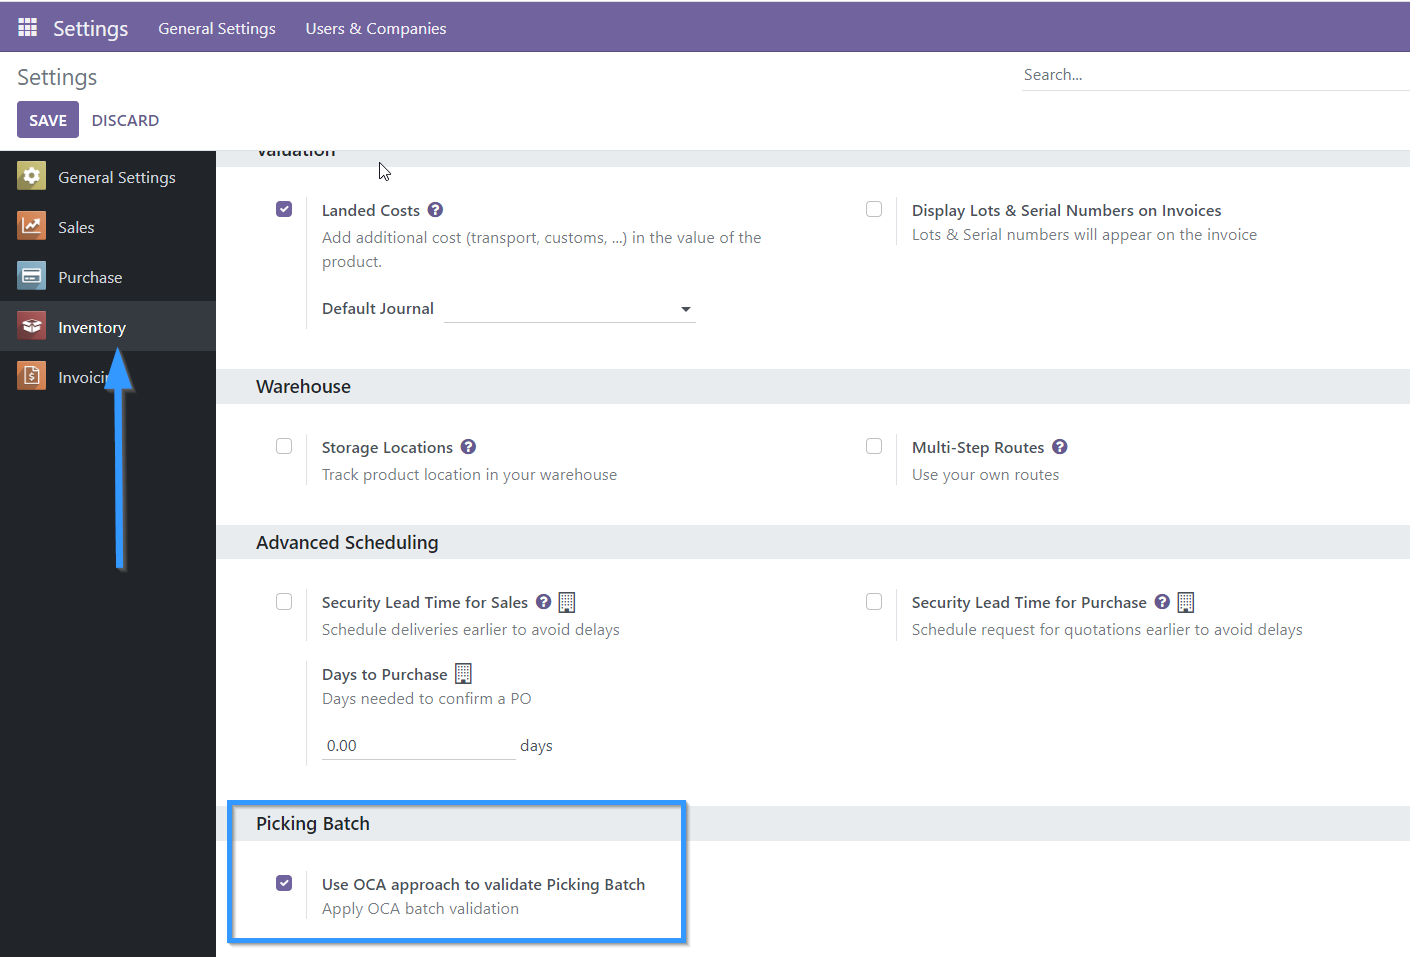
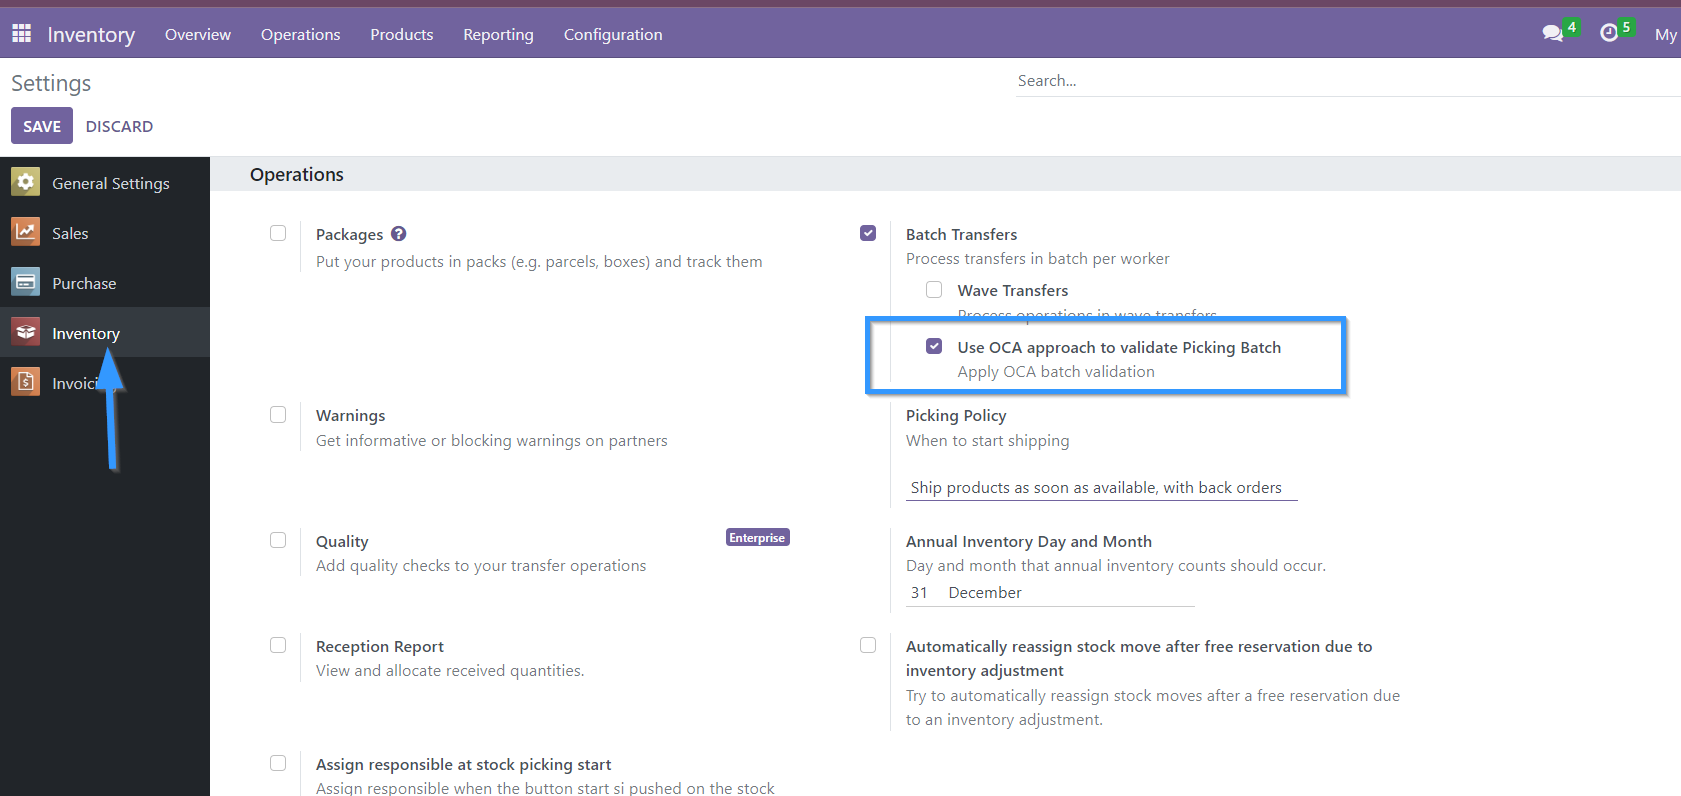
[REF] stock_picking_batch_extended: Move settings option under Batch Picking group
[REF] stock_picking_batch_extended: update picking_batch_configuration_settings img configuration

diff --git a/stock_picking_batch_extended/static/description/index.html b/stock_picking_batch_extended/static/description/index.html
@@ -367,7 +367,7 @@ ul.auto-toc {
 !! This file is generated by oca-gen-addon-readme !!
 !! changes will be overwritten.                   !!
 !!!!!!!!!!!!!!!!!!!!!!!!!!!!!!!!!!!!!!!!!!!!!!!!!!!!
-!! source digest: sha256:b51fb2e50b041efe4ca50b7c91f575be742d5a2fe2cf4224a9c9c7d58db4d37a
+!! source digest: sha256:eb68101c66f58f9b1f501b8510bb38ca4582c6e8a60ceb023390c804dffc6528
 !!!!!!!!!!!!!!!!!!!!!!!!!!!!!!!!!!!!!!!!!!!!!!!!!!!! -->
 <p><a class="reference external image-reference" href="https://odoo-community.org/page/development-status"><img alt="Mature" src="https://img.shields.io/badge/maturity-Mature-brightgreen.png" /></a> <a class="reference external image-reference" href="http://www.gnu.org/licenses/agpl-3.0-standalone.html"><img alt="License: AGPL-3" src="https://img.shields.io/badge/licence-AGPL--3-blue.png" /></a> <a class="reference external image-reference" href="https://github.com/OCA/stock-logistics-workflow/tree/16.0/stock_picking_batch_extended"><img alt="OCA/stock-logistics-workflow" src="https://img.shields.io/badge/github-OCA%2Fstock--logistics--workflow-lightgray.png?logo=github" /></a> <a class="reference external image-reference" href="https://translation.odoo-community.org/projects/stock-logistics-workflow-16-0/stock-logistics-workflow-16-0-stock_picking_batch_extended"><img alt="Translate me on Weblate" src="https://img.shields.io/badge/weblate-Translate%20me-F47D42.png" /></a> <a class="reference external image-reference" href="https://runboat.odoo-community.org/builds?repo=OCA/stock-logistics-workflow&amp;target_branch=16.0"><img alt="Try me on Runboat" src="https://img.shields.io/badge/runboat-Try%20me-875A7B.png" /></a></p>
 <p>This module:</p>
@@ -390,7 +390,7 @@ Adds extra fields and functionalities to the batch picking form.</p>
 </div>
 <div class="section" id="configuration">
 <h1><a class="toc-backref" href="#toc-entry-1">Configuration</a></h1>
-<p>In Inventory / Settings it is possible to activate or deactivate which approach for batch handling will be used per company. By default after installation this option will be activated for all companies.</p>
+<p>In Inventory / Settings / Batch Picking it is possible to activate or deactivate which approach for batch handling will be used per company. By default after installation this option will be activated for all companies.</p>
 <div class="figure align-center">
 <img alt="Picking batch configuration settings" src="https://raw.githubusercontent.com/OCA/stock-logistics-workflow/16.0/stock_picking_batch_extended/static/picking_batch_configuration_settings.png" style="width: 80%;" />
 </div>

diff --git a/stock_picking_batch_extended/__manifest__.py b/stock_picking_batch_extended/__manifest__.py
@@ -5,7 +5,7 @@
 {
     "name": "Stock batch picking extended",
     "summary": "Allows manage a lot of pickings in batch",
-    "version": "16.0.1.0.2",
+    "version": "16.0.1.1.0",
     "author": "Camptocamp, " "Tecnativa, " "Odoo Community Association (OCA)",
     "development_status": "Mature",
     "maintainers": ["gurneyalex", "carlosdauden", "i-vyshnevska"],

diff --git a/stock_picking_batch_extended/README.rst b/stock_picking_batch_extended/README.rst
@@ -7,7 +7,7 @@ Stock batch picking extended
    !! This file is generated by oca-gen-addon-readme !!
    !! changes will be overwritten.                   !!
    !!!!!!!!!!!!!!!!!!!!!!!!!!!!!!!!!!!!!!!!!!!!!!!!!!!!
-   !! source digest: sha256:b51fb2e50b041efe4ca50b7c91f575be742d5a2fe2cf4224a9c9c7d58db4d37a
+   !! source digest: sha256:eb68101c66f58f9b1f501b8510bb38ca4582c6e8a60ceb023390c804dffc6528
    !!!!!!!!!!!!!!!!!!!!!!!!!!!!!!!!!!!!!!!!!!!!!!!!!!!!
 
 .. |badge1| image:: https://img.shields.io/badge/maturity-Mature-brightgreen.png
@@ -41,7 +41,7 @@ Adds extra fields and functionalities to the batch picking form.
 Configuration
 =============
 
-In Inventory / Settings it is possible to activate or deactivate which approach for batch handling will be used per company. By default after installation this option will be activated for all companies.
+In Inventory / Settings / Batch Picking it is possible to activate or deactivate which approach for batch handling will be used per company. By default after installation this option will be activated for all companies.
 
 .. figure:: https://raw.githubusercontent.com/OCA/stock-logistics-workflow/16.0/stock_picking_batch_extended/static/picking_batch_configuration_settings.png
     :alt: Picking batch configuration settings

diff --git a/stock_picking_batch_extended/readme/CONFIGURE.rst b/stock_picking_batch_extended/readme/CONFIGURE.rst
@@ -1,4 +1,4 @@
-In Inventory / Settings it is possible to activate or deactivate which approach for batch handling will be used per company. By default after installation this option will be activated for all companies.
+In Inventory / Settings / Batch Picking it is possible to activate or deactivate which approach for batch handling will be used per company. By default after installation this option will be activated for all companies.
 
 .. figure:: ../static/picking_batch_configuration_settings.png
     :alt: Picking batch configuration settings
